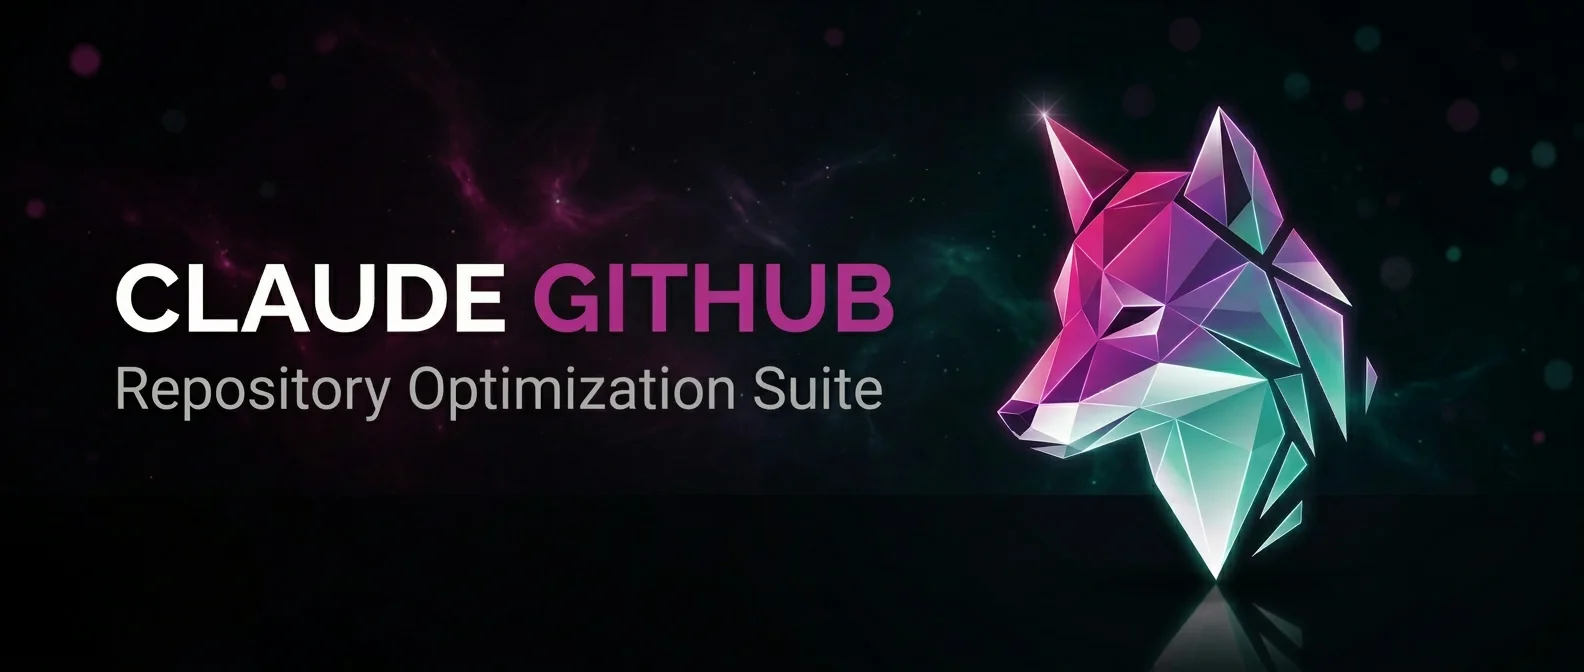
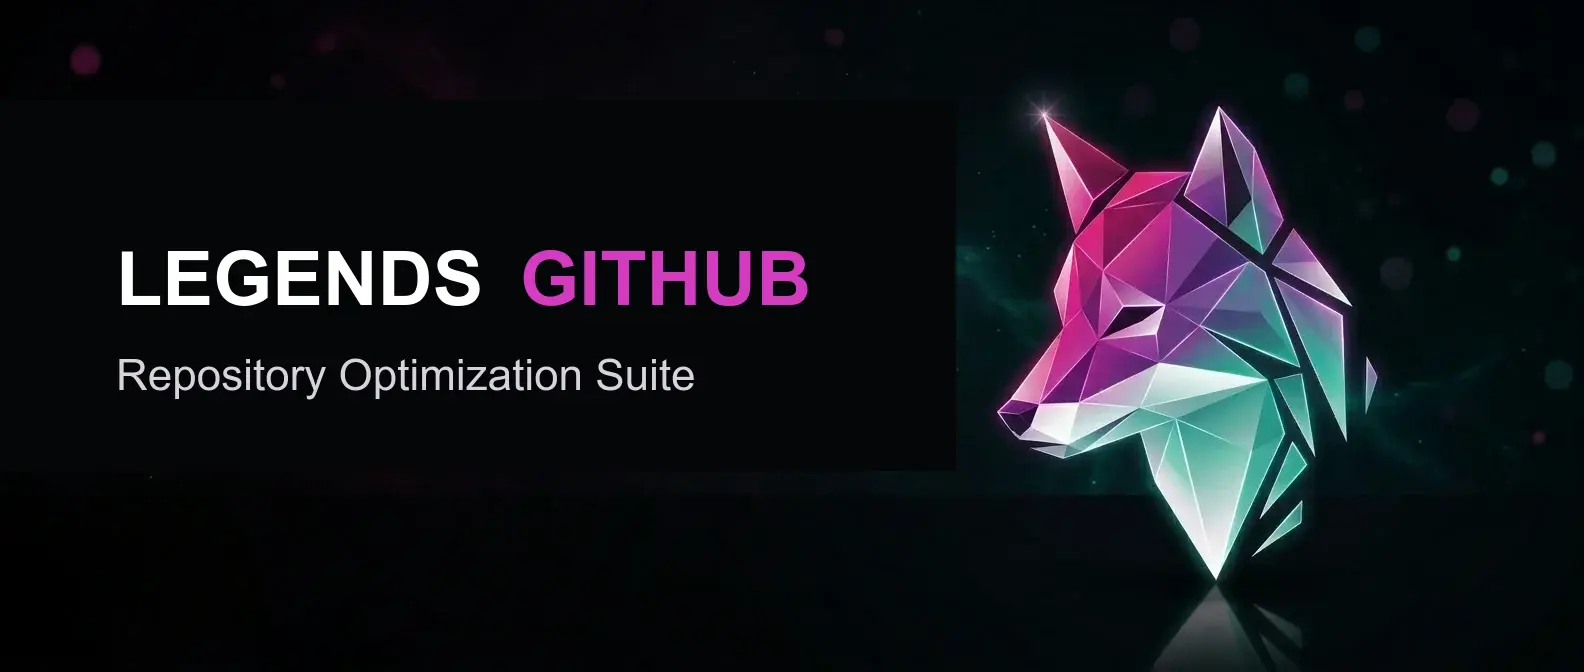
rebrand as Legends GitHub

Changed region(s): [[0.0619, 0.1875, 0.6187, 0.625], [0.0, 0.2812, 0.0309, 0.3125]]

diff --git a/github/scripts/validate_setup.py b/github/scripts/validate_setup.py
@@ -1,5 +1,5 @@
 #!/usr/bin/env python3
-"""Validate that Codex GitHub is ready for CLI, API, or both."""
+"""Validate that Legends GitHub is ready for CLI, API, or both."""
 
 from __future__ import annotations
 
@@ -23,7 +23,7 @@ def _check(label: str, passed: bool, detail: str = "") -> dict:
 
 
 def validate_setup(repo_root: Path, mode: str = "both", allow_missing_gh_auth: bool = False) -> dict:
-    """Validate Codex GitHub runtime readiness."""
+    """Validate Legends GitHub runtime readiness."""
     checks = []
     repo_slug = repo_slug_from_git(repo_root) or ""
     cache_dir, cache_writable = probe_repo_cache(repo_root)
@@ -117,14 +117,14 @@ def validate_setup(repo_root: Path, mode: str = "both", allow_missing_gh_auth: b
     )
     append_run_cache(
         operation="setup-validate",
-        summary=f"Validated Codex GitHub setup for {mode}",
+        summary=f"Validated Legends GitHub setup for {mode}",
         metadata={"passed": ready, "checks": len(checks), "repo_root": str(repo_root)},
     )
     return payload
 
 
 def main() -> int:
-    parser = argparse.ArgumentParser(description="Validate Codex GitHub for CLI or API execution")
+    parser = argparse.ArgumentParser(description="Validate Legends GitHub for CLI or API execution")
     parser.add_argument("--mode", default="both", choices=["cli", "api", "both"])
     parser.add_argument("--path", default=".", help="Repo root or a path inside the repo")
     parser.add_argument("--allow-missing-gh-auth", action="store_true")
@@ -136,7 +136,7 @@ def main() -> int:
     if args.json:
         print(json.dumps(payload, indent=2))
     else:
-        print("Codex GitHub Setup Validation")
+        print("Legends GitHub Setup Validation")
         print("=" * 40)
         for check in payload["checks"]:
             status = "PASS" if check["passed"] else "FAIL"

diff --git a/github/scripts/runtime_paths.py b/github/scripts/runtime_paths.py
@@ -1,5 +1,5 @@
 #!/usr/bin/env python3
-"""Shared runtime path resolution for Codex GitHub."""
+"""Shared runtime path resolution for Legends GitHub."""
 
 from __future__ import annotations
 
@@ -38,8 +38,11 @@ def codex_agents_dir() -> Path:
 
 
 def github_home() -> Path:
-    """Return the global Codex GitHub runtime directory."""
-    return _env_path("CODEX_GITHUB_HOME", home_dir() / ".codex-github")
+    """Return the global Legends GitHub runtime directory."""
+    return _env_path(
+        "LEGENDS_GITHUB_HOME",
+        _env_path("CODEX_GITHUB_HOME", home_dir() / ".legends-github"),
+    )
 
 
 def github_runs_cache() -> Path:

diff --git a/github/scripts/community_repo.py b/github/scripts/community_repo.py
@@ -1,5 +1,5 @@
 #!/usr/bin/env python3
-"""Deterministic community-health planning for Codex GitHub."""
+"""Deterministic community-health planning for Legends GitHub."""
 
 from __future__ import annotations
 
@@ -623,7 +623,7 @@ def fetch_contributor_covenant() -> str:
             return result.stdout.strip()
     request = urllib.request.Request(
         "https://api.github.com/codes_of_conduct/contributor_covenant",
-        headers={"Accept": "application/vnd.github+json", "User-Agent": "codex-github-community-runner"},
+        headers={"Accept": "application/vnd.github+json", "User-Agent": "legends-github-community-runner"},
     )
     try:
         with urllib.request.urlopen(request, timeout=10) as response:

diff --git a/github/scripts/kie_assets.py b/github/scripts/kie_assets.py
@@ -46,7 +46,7 @@ def _kie_request(api_key: str, method: str, url: str, payload: dict[str, Any] | 
             "Authorization": f"Bearer {api_key}",
             "Content-Type": "application/json",
             "Accept": "application/json",
-            "User-Agent": "codex-github/1.0",
+            "User-Agent": "legends-github/1.0",
         },
     )
     try:
@@ -122,7 +122,7 @@ def result_url(record: dict[str, Any]) -> str:
 
 def download_binary(url: str, destination: Path) -> Path:
     """Download one binary asset to disk."""
-    request = Request(url, headers={"User-Agent": "codex-github/1.0"})
+    request = Request(url, headers={"User-Agent": "legends-github/1.0"})
     try:
         with urlopen(request, timeout=120) as response:
             destination.parent.mkdir(parents=True, exist_ok=True)

diff --git a/github/scripts/legal_repo.py b/github/scripts/legal_repo.py
@@ -1,5 +1,5 @@
 #!/usr/bin/env python3
-"""Deterministic legal planning for Codex GitHub."""
+"""Deterministic legal planning for Legends GitHub."""
 
 from __future__ import annotations
 
@@ -652,7 +652,7 @@ def fetch_remote_license_template(spdx_id: str, year: str, holder: str) -> tuple
     if not api_key:
         return "", f"No bundled or remote template is available for {spdx_id}."
     url = f"https://api.github.com/licenses/{api_key}"
-    request = urllib.request.Request(url, headers={"User-Agent": "codex-github-qa"})
+    request = urllib.request.Request(url, headers={"User-Agent": "legends-github-qa"})
     try:
         with urllib.request.urlopen(request, timeout=20) as response:
             payload = json.loads(response.read().decode("utf-8"))

diff --git a/github/scripts/run_headless.py b/github/scripts/run_headless.py
@@ -1,5 +1,5 @@
 #!/usr/bin/env python3
-"""Deterministic headless entrypoint for Codex GitHub."""
+"""Deterministic headless entrypoint for Legends GitHub."""
 
 from __future__ import annotations
 
@@ -342,7 +342,7 @@ def run_empire_command(args: argparse.Namespace) -> dict:
 
 def build_parser() -> argparse.ArgumentParser:
     """Build the CLI parser."""
-    parser = argparse.ArgumentParser(description="Run Codex GitHub workflows non-interactively")
+    parser = argparse.ArgumentParser(description="Run Legends GitHub workflows non-interactively")
     sub = parser.add_subparsers(dest="command", required=True)
 
     verify = sub.add_parser("verify", help="Validate CLI/API readiness")

diff --git a/github/scripts/setup_dataforseo.py b/github/scripts/setup_dataforseo.py
@@ -1,5 +1,5 @@
 #!/usr/bin/env python3
-"""Configure the DataForSEO MCP server for Codex GitHub."""
+"""Configure the DataForSEO MCP server for Legends GitHub."""
 
 from __future__ import annotations
 
@@ -131,7 +131,7 @@ def remove() -> dict:
 
 
 def main() -> int:
-    parser = argparse.ArgumentParser(description="Configure DataForSEO MCP for Codex GitHub")
+    parser = argparse.ArgumentParser(description="Configure DataForSEO MCP for Legends GitHub")
     parser.add_argument("--login")
     parser.add_argument("--password")
     parser.add_argument("--check", action="store_true")

diff --git a/github/scripts/audit_repo.py b/github/scripts/audit_repo.py
@@ -1,5 +1,5 @@
 #!/usr/bin/env python3
-"""Deterministic repository audit helpers for Codex GitHub."""
+"""Deterministic repository audit helpers for Legends GitHub."""
 
 from __future__ import annotations
 

diff --git a/github/scripts/cache_state.py b/github/scripts/cache_state.py
@@ -1,5 +1,5 @@
 #!/usr/bin/env python3
-"""Shared cache helpers for Codex GitHub."""
+"""Shared cache helpers for Legends GitHub."""
 
 from __future__ import annotations
 

diff --git a/github/scripts/empire_repo.py b/github/scripts/empire_repo.py
@@ -1,5 +1,5 @@
 #!/usr/bin/env python3
-"""Deterministic portfolio planning for Codex GitHub."""
+"""Deterministic portfolio planning for Legends GitHub."""
 
 from __future__ import annotations
 

diff --git a/github/scripts/github_runtime.py b/github/scripts/github_runtime.py
@@ -1,5 +1,5 @@
 #!/usr/bin/env python3
-"""Runtime helpers for Codex GitHub headless workflows."""
+"""Runtime helpers for Legends GitHub headless workflows."""
 
 from __future__ import annotations
 

diff --git a/github/scripts/meta_repo.py b/github/scripts/meta_repo.py
@@ -1,5 +1,5 @@
 #!/usr/bin/env python3
-"""Deterministic metadata planning for Codex GitHub."""
+"""Deterministic metadata planning for Legends GitHub."""
 
 from __future__ import annotations
 